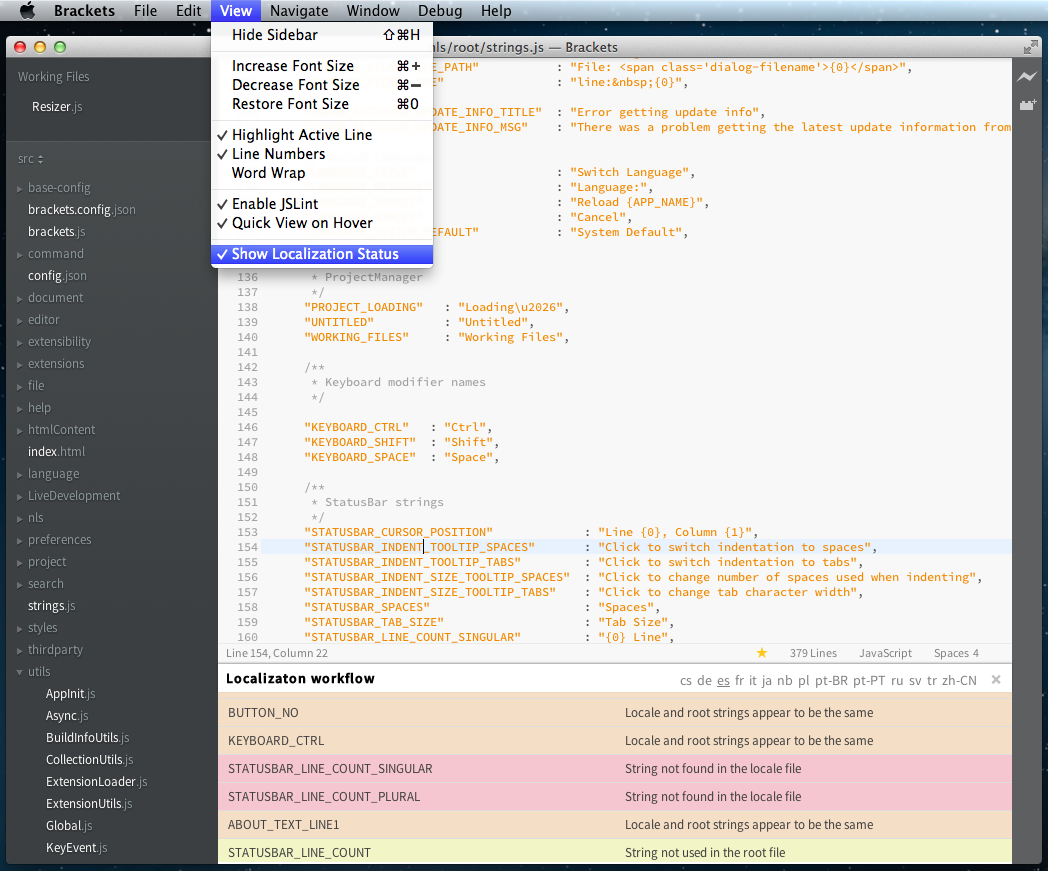
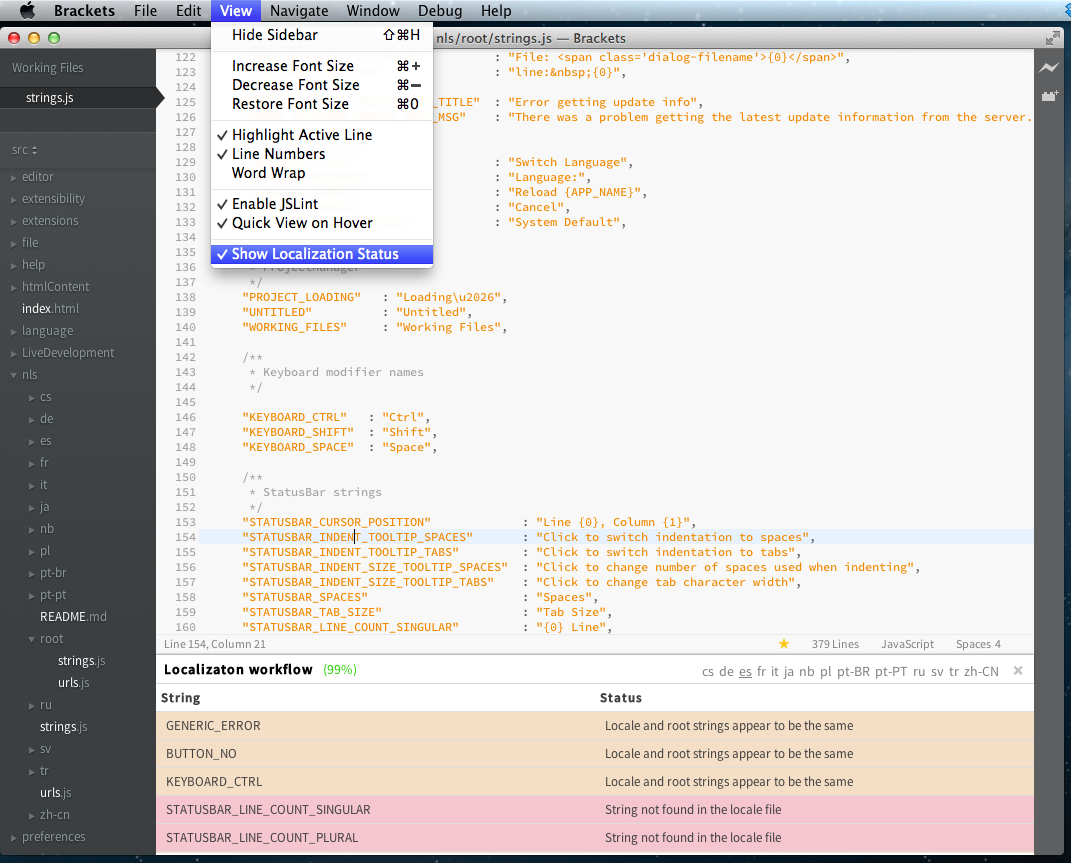
Add translation progress metrics

Changed region(s): [[0.0, 0.0, 1.0, 0.9942], [0.9771, 0.3615, 1.0, 0.3917], [0.9771, 0.241, 1.0, 0.2711]]

diff --git a/main.js b/main.js
@@ -39,8 +39,9 @@ define(function (require, exports, module) {
     function _parseStrings(text) {
         var data, strings = {};
         
-        var lines = StringUtils.getLines(text);
-        var match;
+        var lines = StringUtils.getLines(text),
+            matches = 0,
+            match;
         
         while ((match = lineRegExp.exec(text)) !== null) {
             if (entryKeyRegExp.test(match)) {
@@ -52,15 +53,23 @@ define(function (require, exports, module) {
                                     end: {line: lineNum, ch: match[0].length},
                                     descStart: {line: lineNum, ch: match[0].indexOf(data[3])},
                                     descEnd: {line: lineNum, ch: match[0].indexOf(data[3]) + data[3].length}};
+                
+                matches++;
             }
         }
-        
-        return strings;
+                
+        return {entries: strings, length: matches};
     }
     
     function _compareLocales() {
         
-        var key, $row;
+        var rootEntries         = rootStrings.entries,
+            numRootEntries      = rootStrings.length,
+            localeEntries       = localeStrings.entries,
+            numLocaleEntries    = localeStrings.length,
+            numUnusedEntries    = 0,
+            key,
+            $row;
         
         // Clean results
         $localizationResults.find("tr:gt(0)").remove();
@@ -76,30 +85,48 @@ define(function (require, exports, module) {
             };
         };
         
-        for (key in rootStrings) {
-            if (rootStrings.hasOwnProperty(key)) {
-                if (localeStrings[key] === undefined) {
+        for (key in rootEntries) {
+            if (rootEntries.hasOwnProperty(key)) {
+                if (localeEntries[key] === undefined) {
                     $row = $("<tr>").append($("<td>").html(key)).append($("<td>").html(Strings.MISSING_STRING_DESC)).addClass("missing");
                     $localizationResults.append($row);
-                    $row.on("click", _clickHandler("root", rootStrings[key].start, rootStrings[key].end));
+                    $row.on("click", _clickHandler("root", rootEntries[key].start, rootEntries[key].end));
                 } else {
-                    if (localeStrings[key].desc === rootStrings[key].desc) {
+                    if (localeEntries[key].desc === rootEntries[key].desc) {
                         $row = $("<tr>").append($("<td>").html(key)).append($("<td>").html(Strings.UNTRANSLATED_STRING_DESC)).addClass("untranslated");
                         $localizationResults.append($row);
-                        $row.on("click", _clickHandler(_currentLocale, localeStrings[key].descStart, localeStrings[key].descEnd));
+                        $row.on("click", _clickHandler(_currentLocale, localeEntries[key].descStart, localeEntries[key].descEnd));
                     }
-                    delete localeStrings[key];
+                    delete localeEntries[key];
                 }
             }
         }
         
-        for (key in localeStrings) {
-            if (localeStrings.hasOwnProperty(key)) {
+        for (key in localeEntries) {
+            if (localeEntries.hasOwnProperty(key)) {
                 $row = $("<tr>").append($("<td>").html(key)).append($("<td>").html(Strings.UNUSED_STRING_DESC)).addClass("unused");
                 $localizationResults.append($row);
-                $row.on("click", _clickHandler(_currentLocale, localeStrings[key].start, localeStrings[key].end));
+                $row.on("click", _clickHandler(_currentLocale, localeEntries[key].start, localeEntries[key].end));
+                
+                numUnusedEntries++;
             }
         }
+        
+        var localizationProgress = Math.floor(100 * (numLocaleEntries - numUnusedEntries) / numRootEntries),
+            $localeStatus = $("#locale-status"),
+            localizationProgressClass = "good";
+        
+        if (localizationProgress < 50) {
+            localizationProgressClass = "bad";
+        } else if (localizationProgress < 75) {
+            localizationProgressClass = "warn";
+        } else if (localizationProgress < 90) {
+            localizationProgressClass = "not-so-good";
+        }
+        
+        $localeStatus.text("(" + localizationProgress + "%)")
+            .removeClass()
+            .addClass(localizationProgressClass);
     }
     
     function _analyzeLocaleStrings() {
@@ -211,6 +238,7 @@ define(function (require, exports, module) {
         $('.content').append('<div id="localization-workflow" class="bottom-panel">'
                             + ' <div class="toolbar simple-toolbar-layout">'
                             + '     <div class="title">Localizaton workflow</div>'
+                            + '     <span id="locale-status"/>'
                             + '     <ul id="locale-selector" class="nav"/>'
                             + '     <a href="#" class="close">&times;</a>'
                             + ' </div>'

diff --git a/styles.css b/styles.css
@@ -1,3 +1,24 @@
+#locale-status {
+    position: absolute;
+    margin-left: 10px;
+}
+
+#locale-status.good {
+    color: #28d000;
+}
+
+#locale-status.not-so-good {
+    color: #cfdd00;
+}
+
+#locale-status.warn {
+    color: #ef7a00;
+}
+
+#locale-status.bad {
+    color: #ea002d;
+}
+
 #locale-selector {
     position: absolute; 
     right: 30px;
